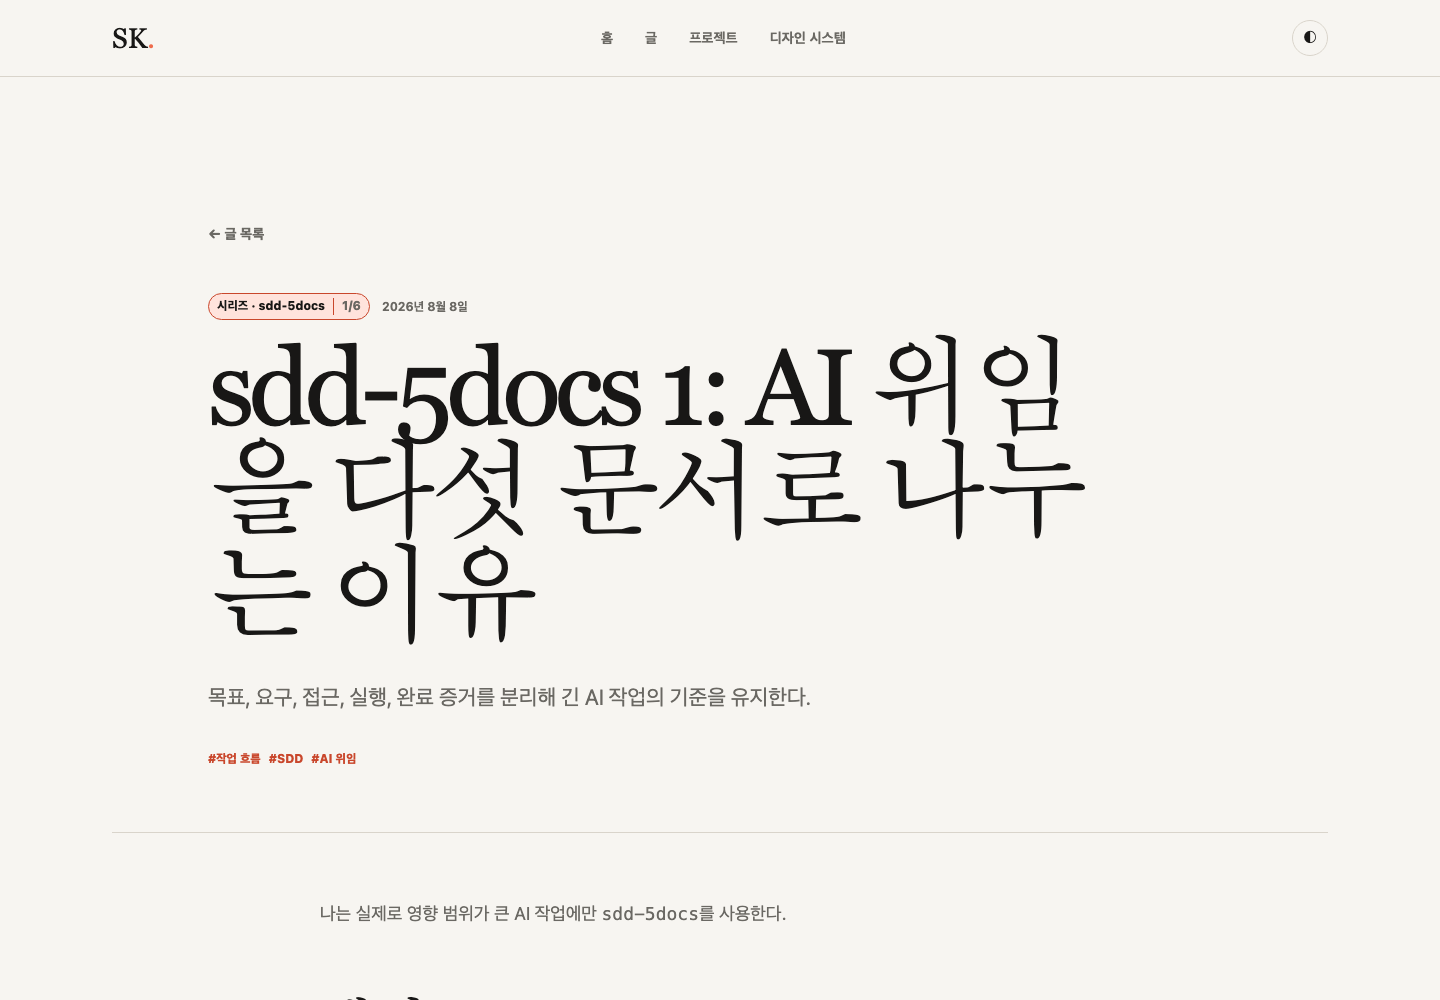
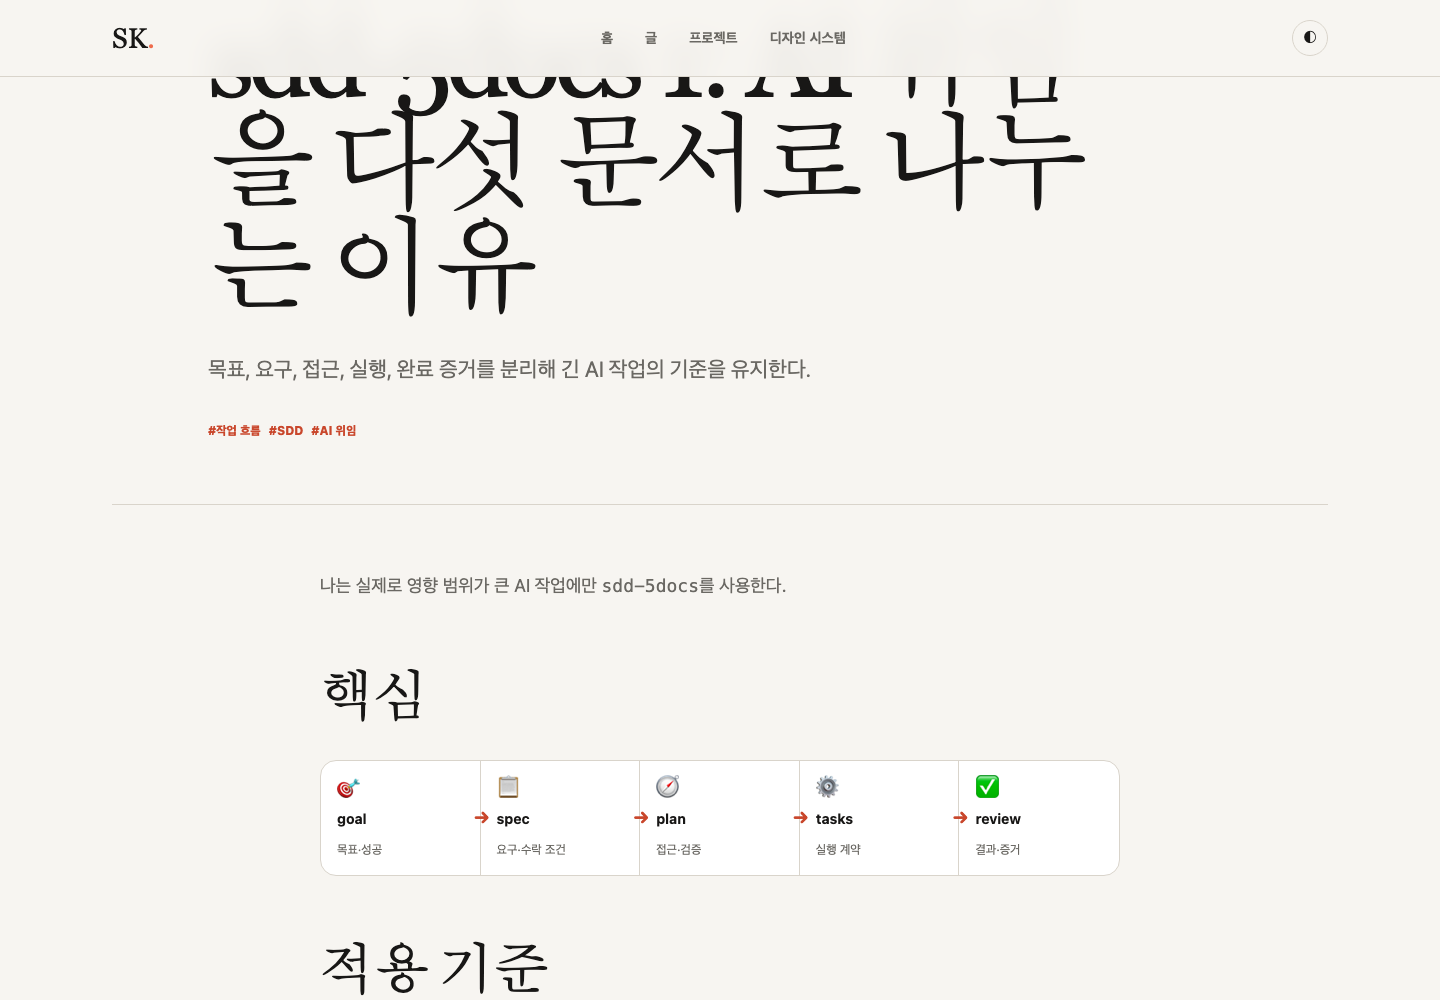
기능: 글 흐름 다이어그램 추가

diff --git a/src/content/posts/how-i-use-sdd-5docs.md b/src/content/posts/how-i-use-sdd-5docs.md
@@ -12,15 +12,15 @@ seriesOrder: 1
 
 ## 핵심
 
-| 문서 | 결정 |
-| --- | --- |
-| `goal.md` | 왜 하는가, 성공은 무엇인가 |
-| `spec.md` | 무엇을 만족해야 하는가 |
-| `plan.md` | 어떤 접근과 검증을 택하는가 |
-| `tasks.md` | 누가 무엇을 어떻게 실행하는가 |
-| `review.md` | 무엇을 만들고 검증했는가 |
-
-사람은 목표와 최종 머지를 승인한다. AI는 정해진 방향 안에서 작성·구현·검증을 이어간다.
+<figure class="process-flow process-flow--5" aria-label="goal에서 review까지 이어지는 다섯 문서 흐름">
+<ol class="process-flow">
+<li><span aria-hidden="true">🎯</span><strong>goal</strong><small>목표·성공</small></li>
+<li><span aria-hidden="true">📋</span><strong>spec</strong><small>요구·수락 조건</small></li>
+<li><span aria-hidden="true">🧭</span><strong>plan</strong><small>접근·검증</small></li>
+<li><span aria-hidden="true">⚙</span><strong>tasks</strong><small>실행 계약</small></li>
+<li><span aria-hidden="true">✅</span><strong>review</strong><small>결과·증거</small></li>
+</ol>
+</figure>
 
 ## 적용 기준
 

diff --git a/src/content/posts/how-i-finish-and-record-work.md b/src/content/posts/how-i-finish-and-record-work.md
@@ -13,11 +13,14 @@ seriesOrder: 2
 
 ## 핵심
 
-1. 구현을 검증 가능한 행동 단위로 나눈다.
-2. 실패를 먼저 재현하거나 완료 조건을 테스트한다.
-3. 테스트·빌드·실제 화면·CI로 결과를 확인한다.
-4. self-review에서 문제가 나오면 수정 후 다시 검증한다.
-5. 다음 판단에 필요한 내용만 LocalMind에 남긴다.
+<figure class="process-flow process-flow--4" aria-label="구현을 나누고 검증한 뒤 판단을 기록하는 흐름">
+<ol class="process-flow">
+<li><span aria-hidden="true">🧩</span><strong>나누기</strong><small>검증 가능한 행동 단위</small></li>
+<li><span aria-hidden="true">🧪</span><strong>검증</strong><small>테스트·빌드·화면·CI</small></li>
+<li><span aria-hidden="true">🔎</span><strong>재검토</strong><small>self-review 후 재검증</small></li>
+<li><span aria-hidden="true">🧠</span><strong>기록</strong><small>다음 판단에 필요한 맥락</small></li>
+</ol>
+</figure>
 
 ## 완료 증거
 

diff --git a/src/content/posts/how-i-work-with-ai.md b/src/content/posts/how-i-work-with-ai.md
@@ -12,10 +12,14 @@ AI는 실행한다. 목표와 최종 판단은 사람이 맡는다.
 
 ## 핵심
 
-1. 요청을 문제·범위·완료 조건으로 바꾼다.
-2. 결과를 바꿀 모호함만 먼저 확인한다.
-3. 작업 크기에 맞게 조사와 계획의 깊이를 정한다.
-4. AI가 실행하고 사람이 최종 결정한다.
+<figure class="process-flow process-flow--4" aria-label="요청을 정의하고 AI가 실행한 뒤 사람이 최종 결정하는 흐름">
+<ol class="process-flow">
+<li><span aria-hidden="true">🧭</span><strong>정의</strong><small>문제·범위·완료 조건</small></li>
+<li><span aria-hidden="true">❓</span><strong>확인</strong><small>결과를 바꿀 모호함</small></li>
+<li><span aria-hidden="true">⚙</span><strong>실행</strong><small>작업 크기에 맞게 조사·검증</small></li>
+<li><span aria-hidden="true">✅</span><strong>결정</strong><small>사람이 최종 반영</small></li>
+</ol>
+</figure>
 
 ## 판단 기준
 
